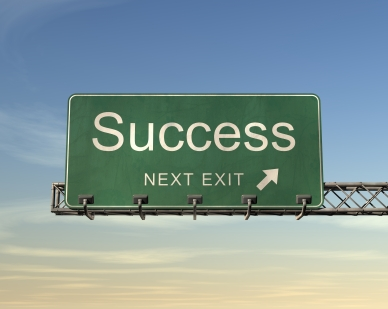
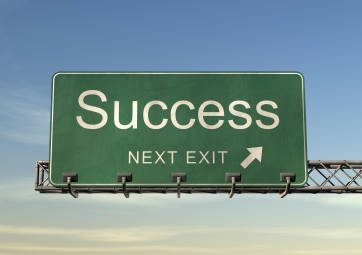
Add success image

diff --git a/index.html b/index.html
@@ -299,7 +299,7 @@
 		By working smarter, you'll aim for bigger bolder business goals
 		</p>
             </div>
-	<img src="/static/img/home_success.jpg" width="250" alt="">
+	<img src="/static/img/home_success.jpg" width="350" alt="">
         </div><!-- /row -->
 
 
